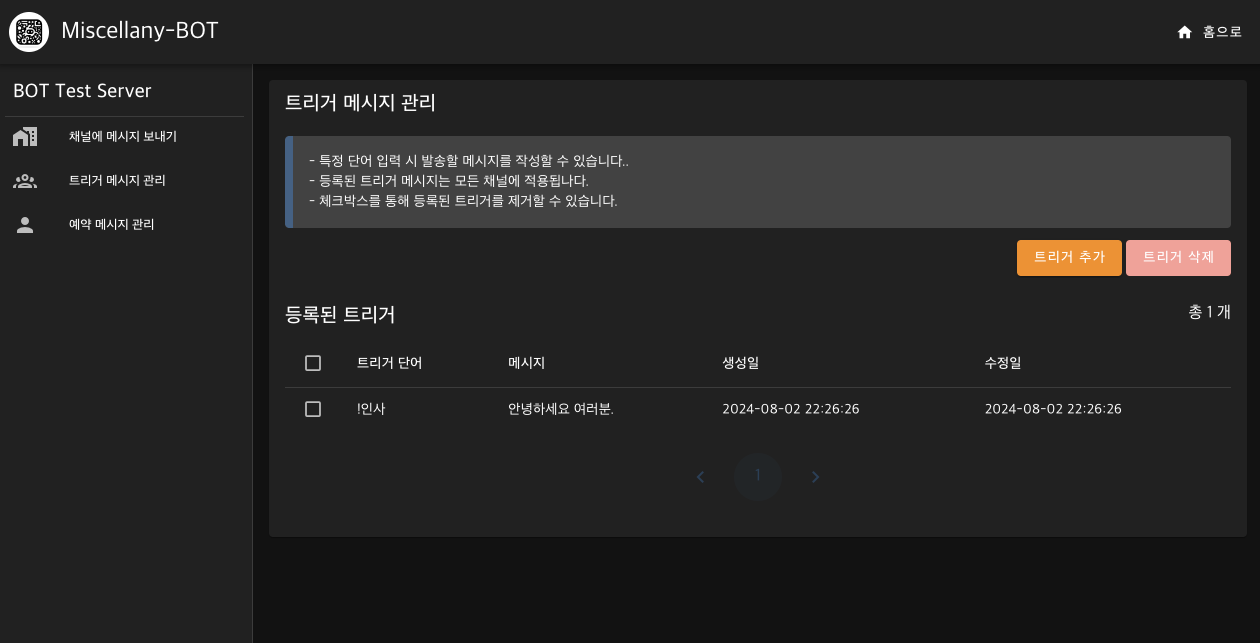
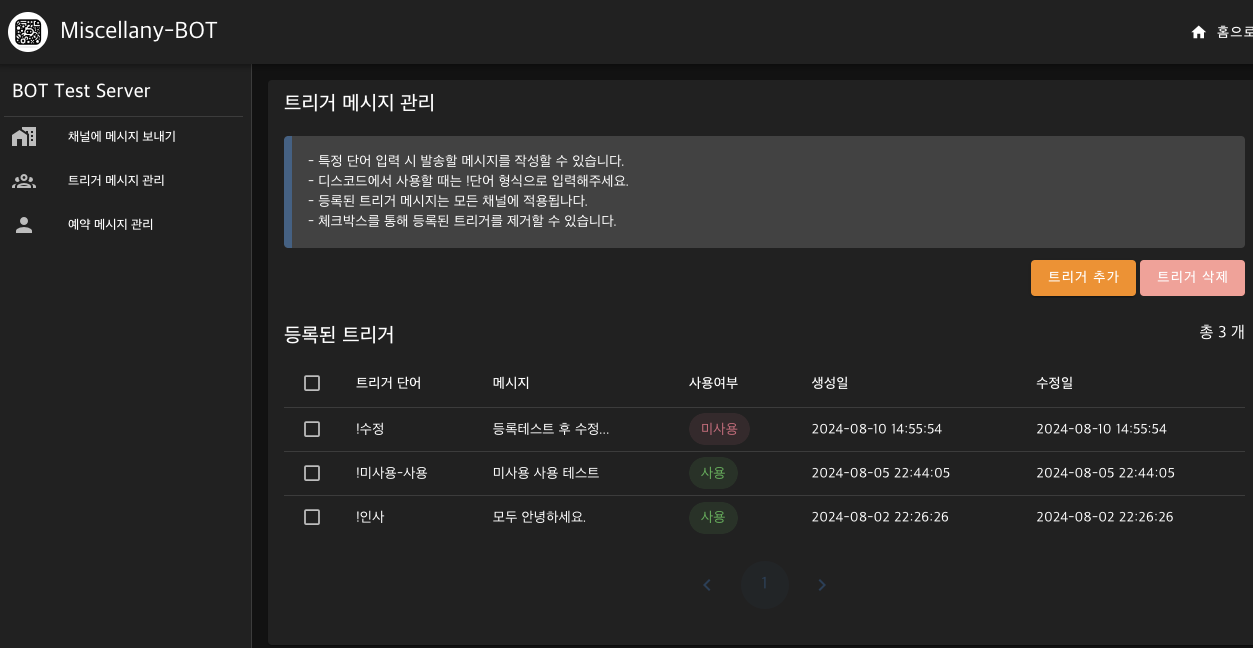
readme 수정 트리거 쪽 화면 수정으로 인한 수정

diff --git a/README.md b/README.md
@@ -150,7 +150,10 @@ Google Translate API를 이용해 구현했다.
 <img src="images/13.png"/>
 특정 단어에 메시지 트리거를 설정하는 페이지.
 <img src="images/14.png"/>
-트리거 추가 다이얼로그
+트리거 추가 다이얼로그.
+
+!는 자동으로 붙게 처리되어 있어서 트리거할 단어만 입력하면 된다.
+<img src="images/14-1.png"/>
 <img src="images/15.png"/>
 등록된 트리거 단어를 디스코드 채팅에 입력했을 때 메시지가 전송된 모습
 
